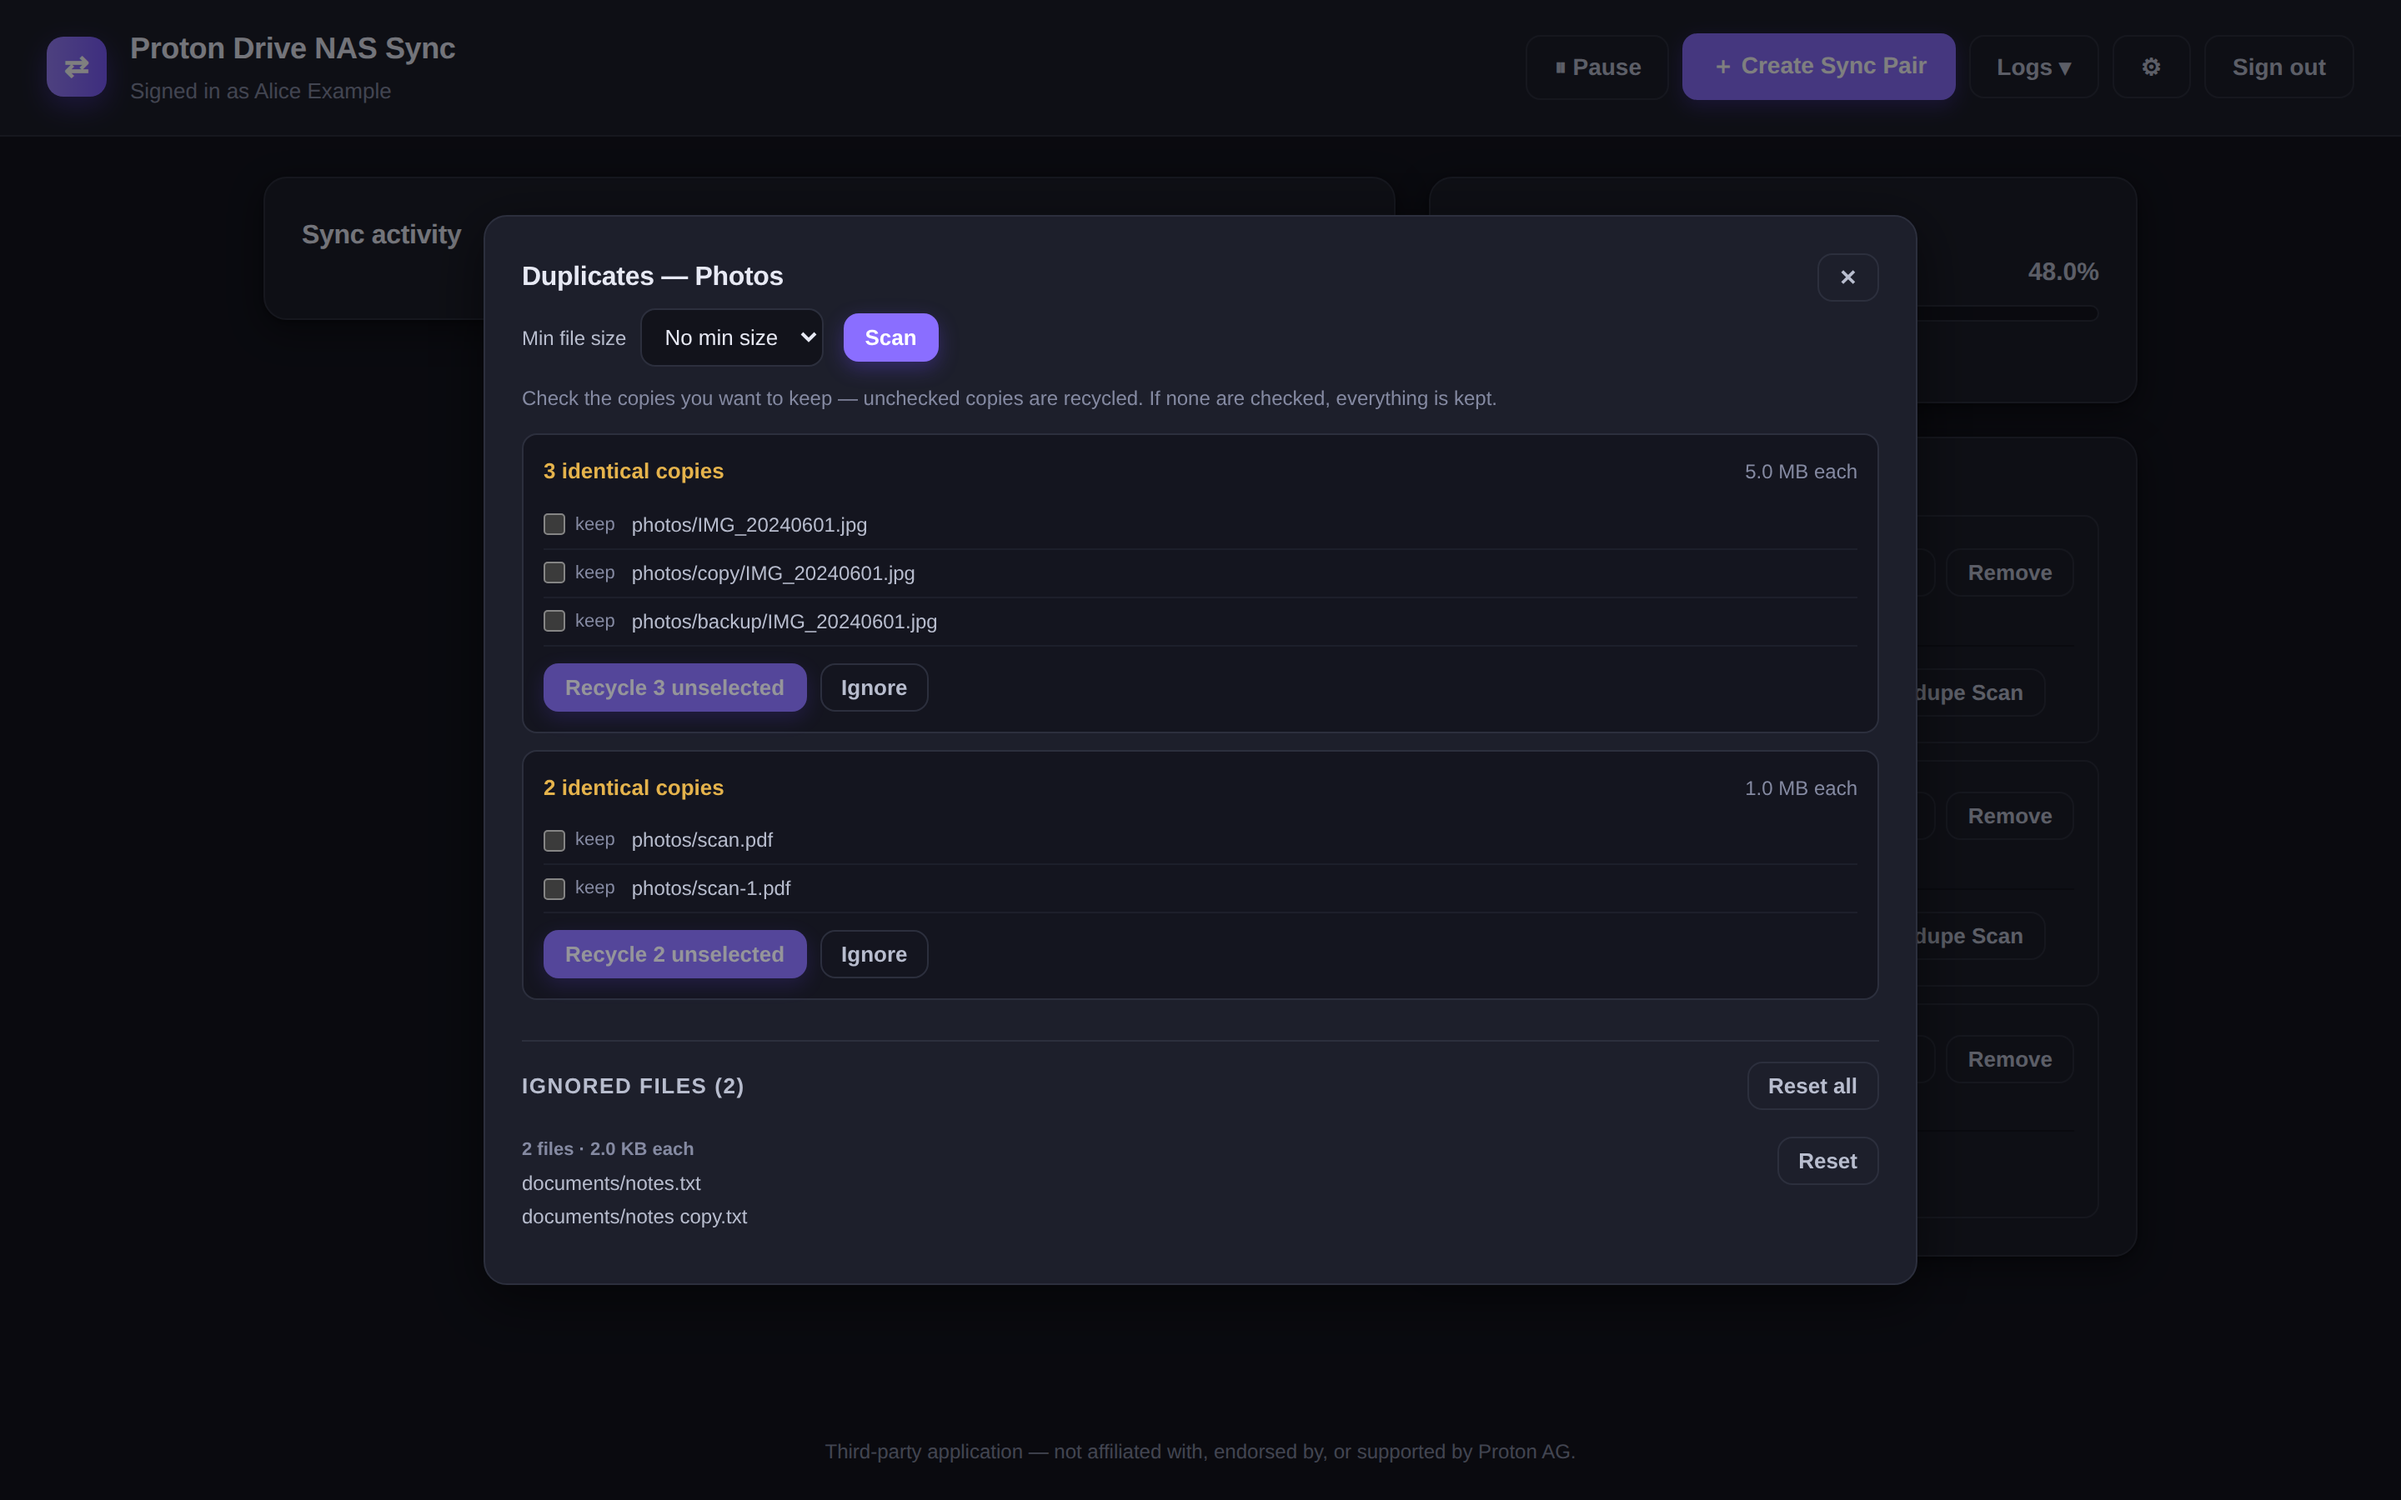
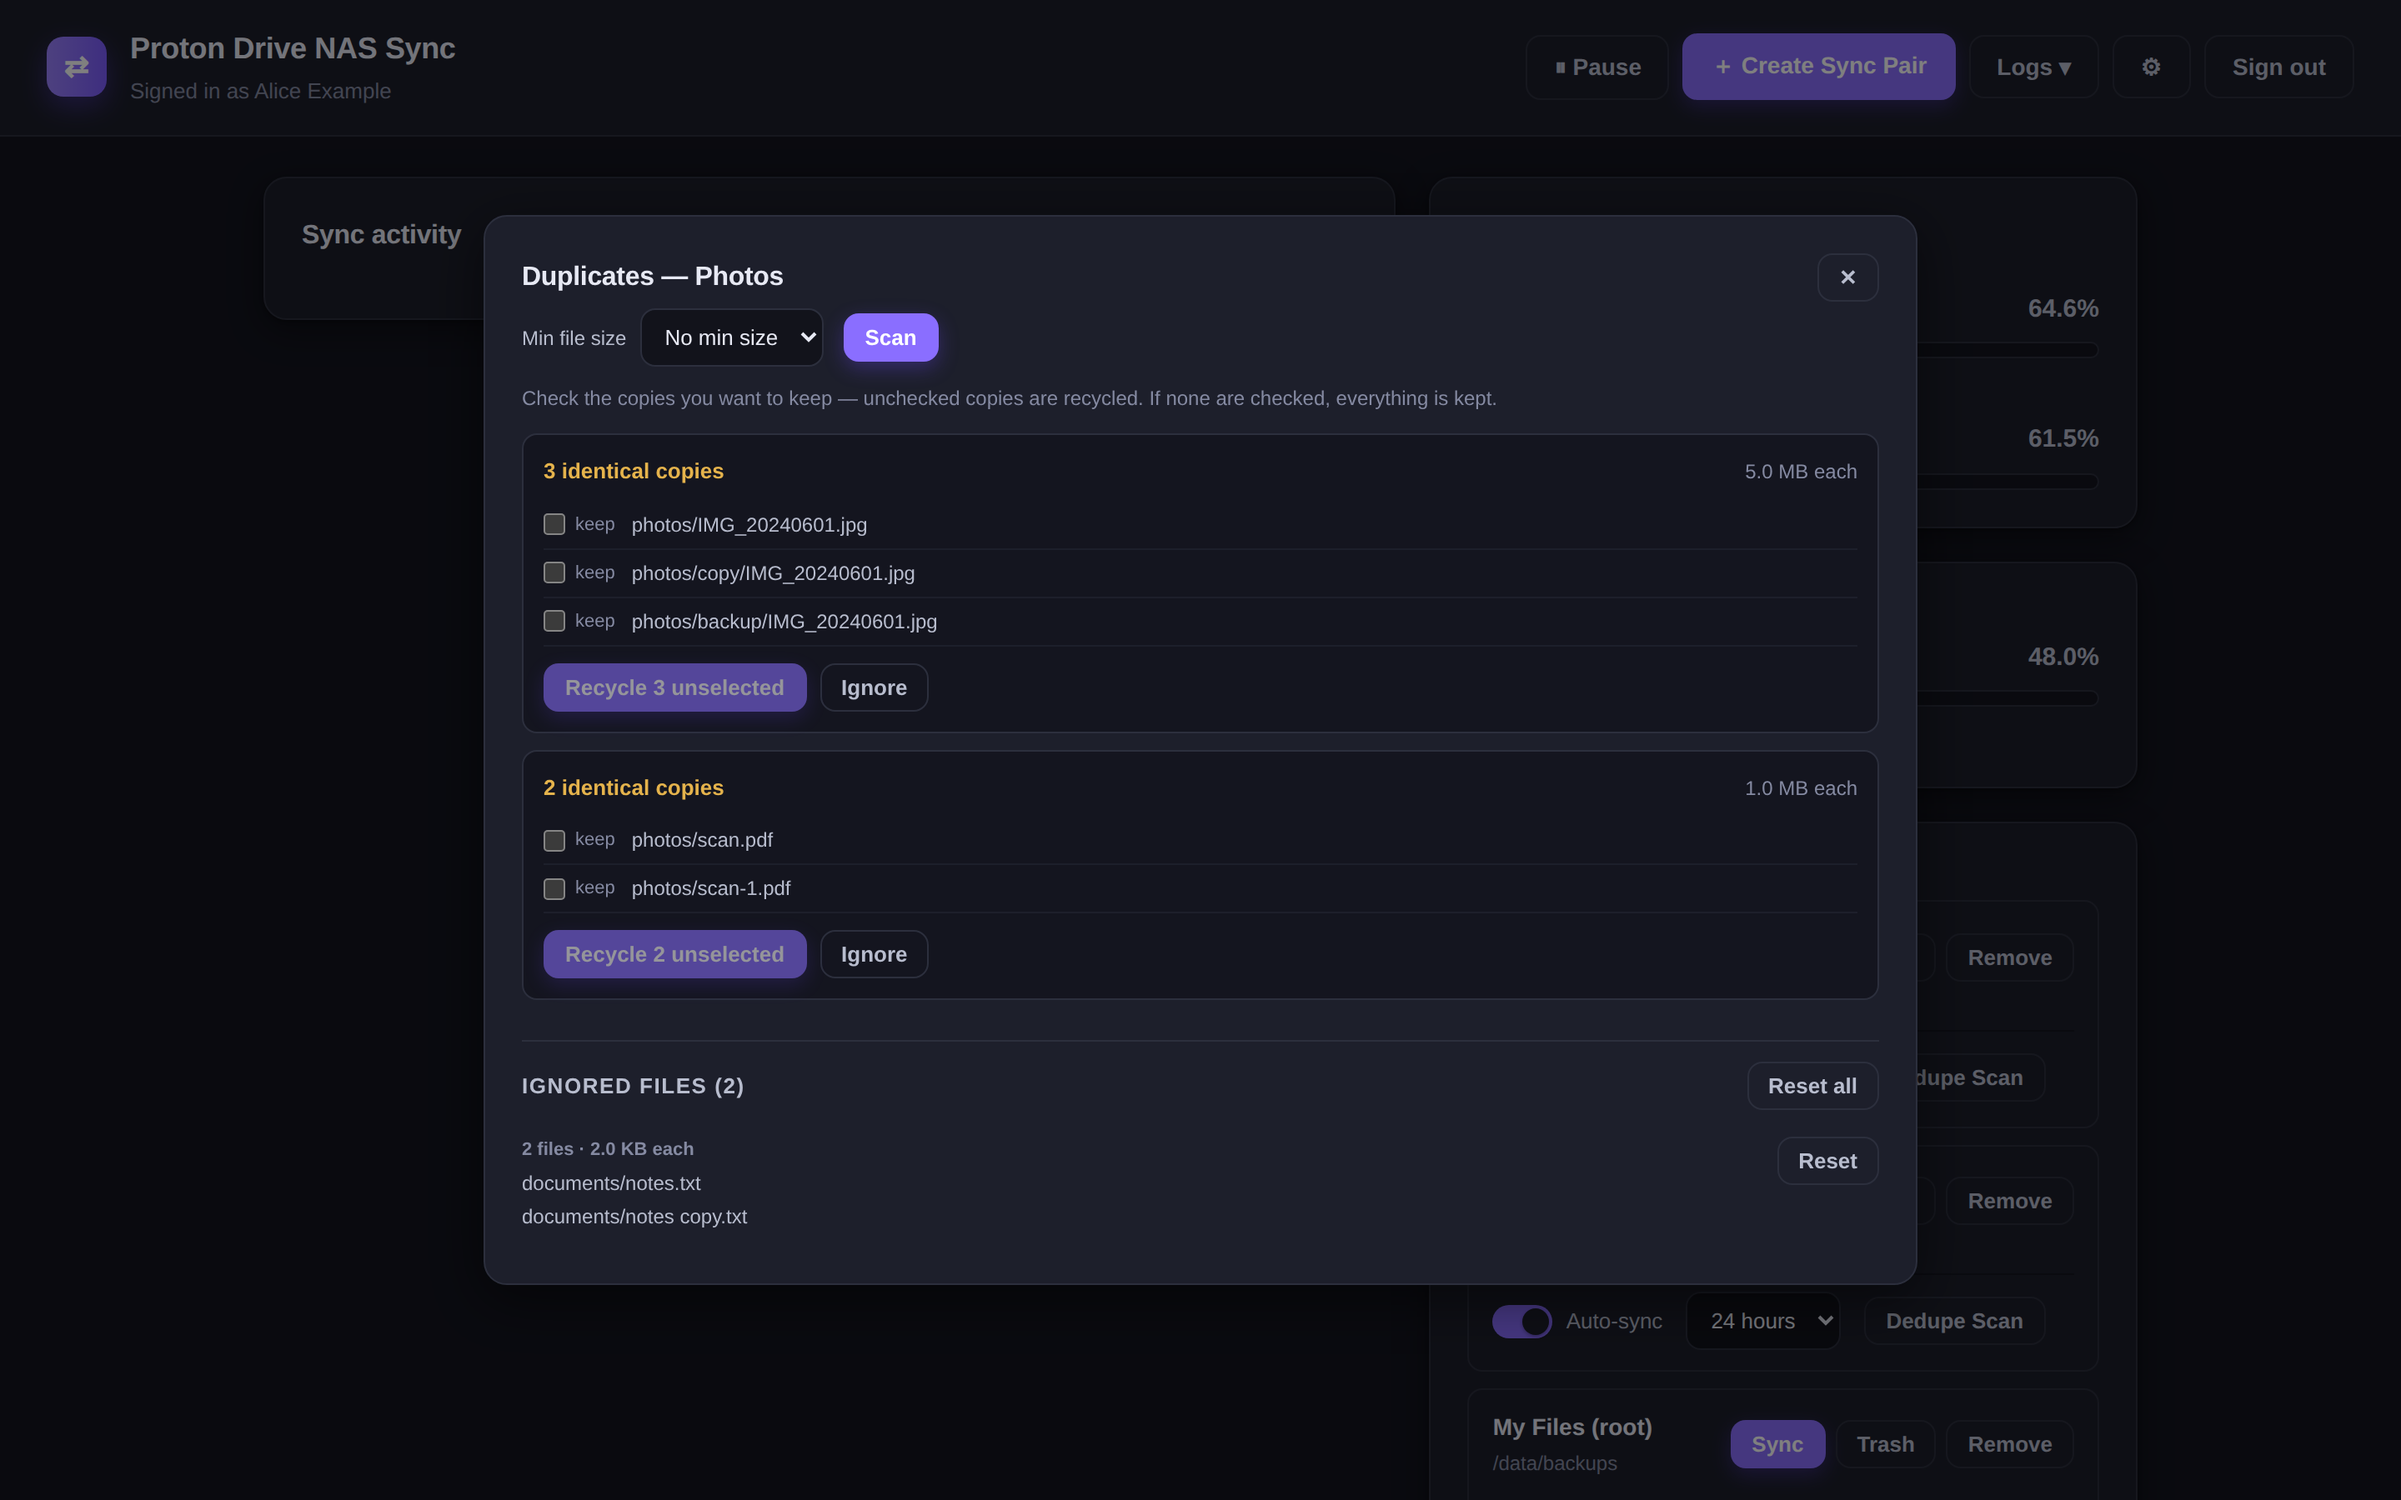
Docs: refresh screenshots (local storage card + error log) and document the error log feature

diff --git a/docs/USER_GUIDE.md b/docs/USER_GUIDE.md
@@ -16,8 +16,8 @@ After signing in you land on the dashboard, with two columns:
 
 - **Sync activity** (left) — the live status and progress of the current sync, plus
   the last-sync summary.
-- **Storage** and **Folder pairs** (right) — your Proton Drive usage and the list
-  of sync pairs.
+- **Local storage**, **Storage**, and **Folder pairs** (right) — your NAS volumes'
+  usage, your Proton Drive usage, and the list of sync pairs.
 
 ![Dashboard](screenshots/06-dashboard.png)
 
@@ -28,7 +28,7 @@ After signing in you land on the dashboard, with two columns:
 | **⏸ Pause / ▶ Resume** | Pause or resume all syncing globally. |
 | **⏹ Stop** | Stop the current sync (shown only while a sync is running). |
 | **＋ Create Sync Pair** | Add a new folder pair. |
-| **Logs ▾** | **Sync log** (full, searchable, downloadable) or **Activity log** (recent events). |
+| **Logs ▾** | **Sync log** (full, searchable, downloadable), **Activity log** (recent events), or **Error log** (errors/conflicts/warnings). Turns **red** (errors) or **yellow** (warnings/conflicts) when there are new entries. |
 | **⚙ Settings** | Backup, app password, lock, theme, and max concurrent transfers. |
 | **Sign out** | Sign out of Proton. |
 
@@ -147,9 +147,16 @@ Several guards prevent a mistake from wiping data:
 
 ---
 
-## Storage usage
+## Local storage
 
-The **Storage** card shows how much of your Proton Drive you're using.
+The **Local storage** card sits above the Proton Drive **Storage** card and shows
+every data volume mounted into the container — `/data` plus any other bind mounts
+you've added — with per-volume used/total and a fill bar. The container's own
+storage and `/config` are excluded automatically.
+
+## Storage usage (Proton Drive)
+
+The **Storage** card shows how much of your Proton Drive quota you're using.
 
 - **Above 80%** — the bar turns yellow-orange.
 - **Above 90%** — the bar turns red and a **"Warning: Drive space almost full"**
@@ -161,7 +168,7 @@ The **Storage** card shows how much of your Proton Drive you're using.
 
 ## Logs
 
-The **Logs ▾** menu has two views:
+The **Logs ▾** menu has three views:
 
 ![Logs menu](screenshots/14-logs-menu.png)
 
@@ -174,6 +181,27 @@ The **Logs ▾** menu has two views:
   (capped at 200 events).
 
   ![Activity log](screenshots/17-activity-log.png)
+
+- **Error log** — a separate, persistent log of **errors**, **conflicts**, and
+  **warnings** only (see below).
+
+### Error log
+
+The **Logs ▾** button turns **red** when there are unseen errors, or **yellow**
+for unseen warnings/conflicts. Open **Logs ▾ → Error log** to review them:
+
+![Error log](screenshots/21-error-log.png)
+
+Entries are colour-coded by severity — **error** (red), **conflict** (orange),
+**warning** (yellow). Three actions are available:
+
+- **Reset** — mark the current entries as seen (returns the button to normal).
+- **Clear** — delete every entry.
+- **Save** — download the whole log as a `.txt` file.
+
+> The main sync log is rotated once it grows large, so an early problem on a long
+> sync could scroll away. The error log is separate and only records
+> errors/conflicts/warnings, so those survive.
 
 ---
 

diff --git a/docs/FAQ.md b/docs/FAQ.md
@@ -43,9 +43,9 @@ in. (That's a snapshot of your *setup*, not your files.)
   to host.
 - **Un-branded and honest.** No Proton branding — it's explicitly third-party —
   with a disclaimer on the login screen.
-- **Two-column dashboard.** Live sync activity and progress on the left; storage
-  usage and folder pairs on the right. Everything you need to see is on one
-  screen.
+- **Two-column dashboard.** Live sync activity and progress on the left; local
+  storage, Proton Drive storage, and folder pairs on the right. Everything you
+  need to see is on one screen.
 - **Actions live in modals.** Creating a pair, the duplicate scan, logs, and the
   trash are pop-up overlays. The top bar holds only the global controls
   (Pause/Resume, Stop, Create pair, Logs, Settings, Sign out).
@@ -245,6 +245,18 @@ boxes alike.
 Uploads that would exceed quota fail that file, are logged, and are retried on
 the next cycle. The dashboard shows your usage and warns you at 80% (amber) and
 90% (red) so you catch it before it bites.
+
+### Why did the Logs button turn red (or yellow)?
+
+The **Logs ▾** button is a live indicator for the **error log** — a separate,
+persistent log of errors, conflicts, and warnings. It turns **red** when there
+are new (unseen) errors, **yellow** for new warnings/conflicts. Open **Logs ▾ →
+Error log** to review them (colour-coded by severity), then **Reset** to clear the
+indicator, **Clear** to wipe the log, or **Save** to download it.
+
+The error log exists because the main sync log rotates once it grows large, so an
+early error on a big sync could scroll away. Errors/conflicts/warnings are written
+to the error log as well, so they aren't lost.
 
 ### What if I get "too many logins" (429)?
 
